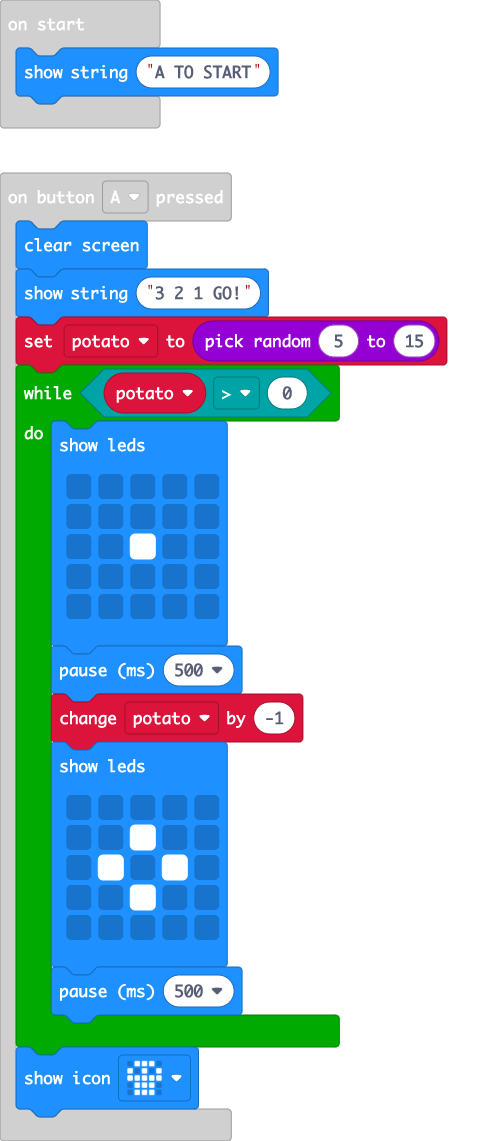
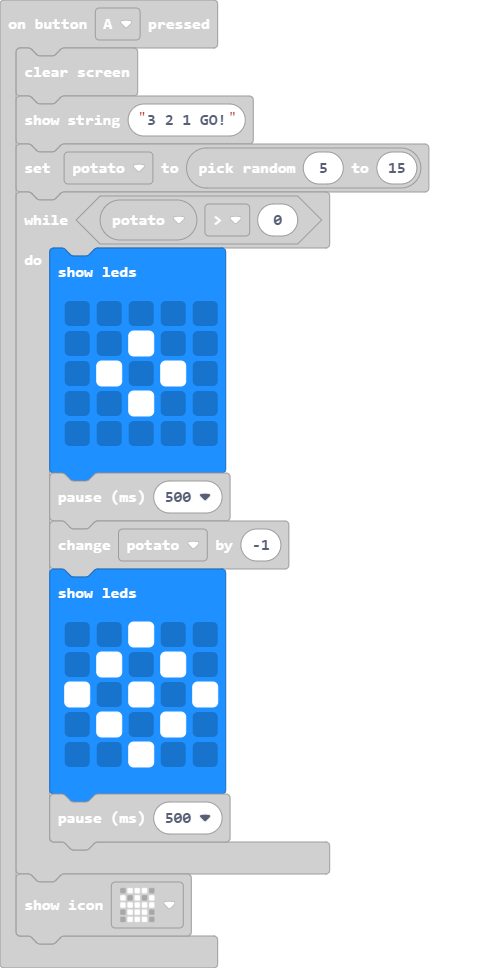
changed leds

diff --git a/main.ts b/main.ts
@@ -5,19 +5,19 @@ input.onButtonPressed(Button.A, function () {
     while (potato > 0) {
         basic.showLeds(`
             . . . . .
-            . . . . .
             . . # . .
-            . . . . .
+            . # . # .
+            . . # . .
             . . . . .
             `)
         basic.pause(500)
         potato += -1
         basic.showLeds(`
-            . . . . .
             . . # . .
             . # . # .
+            # . # . #
+            . # . # .
             . . # . .
-            . . . . .
             `)
         basic.pause(500)
     }
